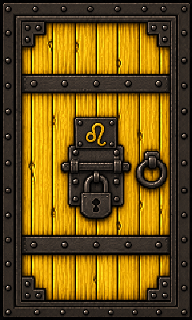
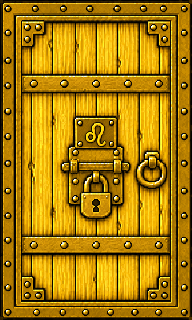
Add dedicated Gemini doors to all six event floors

diff --git a/js/renderer.js b/js/renderer.js
@@ -229,6 +229,8 @@ export function configureRenderer(options) {
   loadDoorTexture(["specialLocked", "specialUnlocked"], "images/dungeon_effects/dungeon_door_purple.webp");
   renderer.doorTextures.leo = makeDoorTexture("special");
   loadDoorTexture(["leo"], "images/dungeon_effects/dungeon_door_gold_leo.webp");
+  renderer.doorTextures.gemini = makeDoorTexture("special");
+  loadDoorTexture(["gemini"], "images/dungeon_effects/dungeon_door_gold_gemini.webp");
   npcs.forEach(npc => loadCharacterImage(npc.imageId, npc.image));
   Object.values(BOSSES).forEach(boss => {
     if (boss.encounterImageId && boss.encounterImage) {

diff --git a/data/leo-room.js b/data/leo-room.js
@@ -4,6 +4,11 @@ export function isLeoRoomDoor(depth, doorKind) {
   return depth === 1 && (doorKind === 'specialLocked' || doorKind === 'specialUnlocked');
 }
 
+const GEMINI_DOOR_DEPTHS = new Set([22, 31, 44, 48, 59, 73]);
+
 export function getEventDoorTextureKind(depth, doorKind) {
-  return isLeoRoomDoor(depth, doorKind) ? 'leo' : doorKind;
+  if (isLeoRoomDoor(depth, doorKind)) return 'leo';
+  if ((doorKind === 'specialLocked' || doorKind === 'specialUnlocked')
+    && GEMINI_DOOR_DEPTHS.has(depth)) return 'gemini';
+  return doorKind;
 }

diff --git a/index.html b/index.html
@@ -590,7 +590,7 @@
     </section>
   </section>
 </main>
-  <script type="module" src="js/main.js?v=20260918-9"></script>
+  <script type="module" src="js/main.js?v=20260918-10"></script>
   <script type="module" src="js/title-screen.js?v=20260917-3"></script>
 </body>
 </html>

diff --git a/docs/review-findings.md b/docs/review-findings.md
@@ -1605,3 +1605,8 @@
 - Virgo marks the active B95 quest objective until obtained. Marathon rewards, unreleased Leo, and B4 Libra (no matching transfer destination) have no visible transfer marker.
 - SVG paths avoid emoji/font dependence; multiple signs share a row. Narrow-screen transfer spacing adjusted to prevent title/list overlap.
 - Tests: full suite 1455 passed; cache tests 14 passed after version bump; PC/mobile browser checks passed for multiple markers, removal and legacy Gemini conditions. Cache versions: main/town CSS 20260918-9.
+
+## 2026-09-18 Gemini dedicated doors
+- B22/B31/B44/B48/B59/B73 specialLocked and specialUnlocked doors use the separate Gemini texture key and supplied dungeon_door_gold_gemini.webp. B1 Leo and all other door kinds/floors keep their own texture mappings.
+- Door access rules unchanged. Existing user edit to the Leo image preserved.
+- Verified all 100 depths against six door kinds; related tests 6 passed, cache tests 14 passed. Browser smoke check rendered six Gemini floors, B1, B18, B23 without page errors; B22/B18 screenshots visually checked. Main cache 20260918-10.
